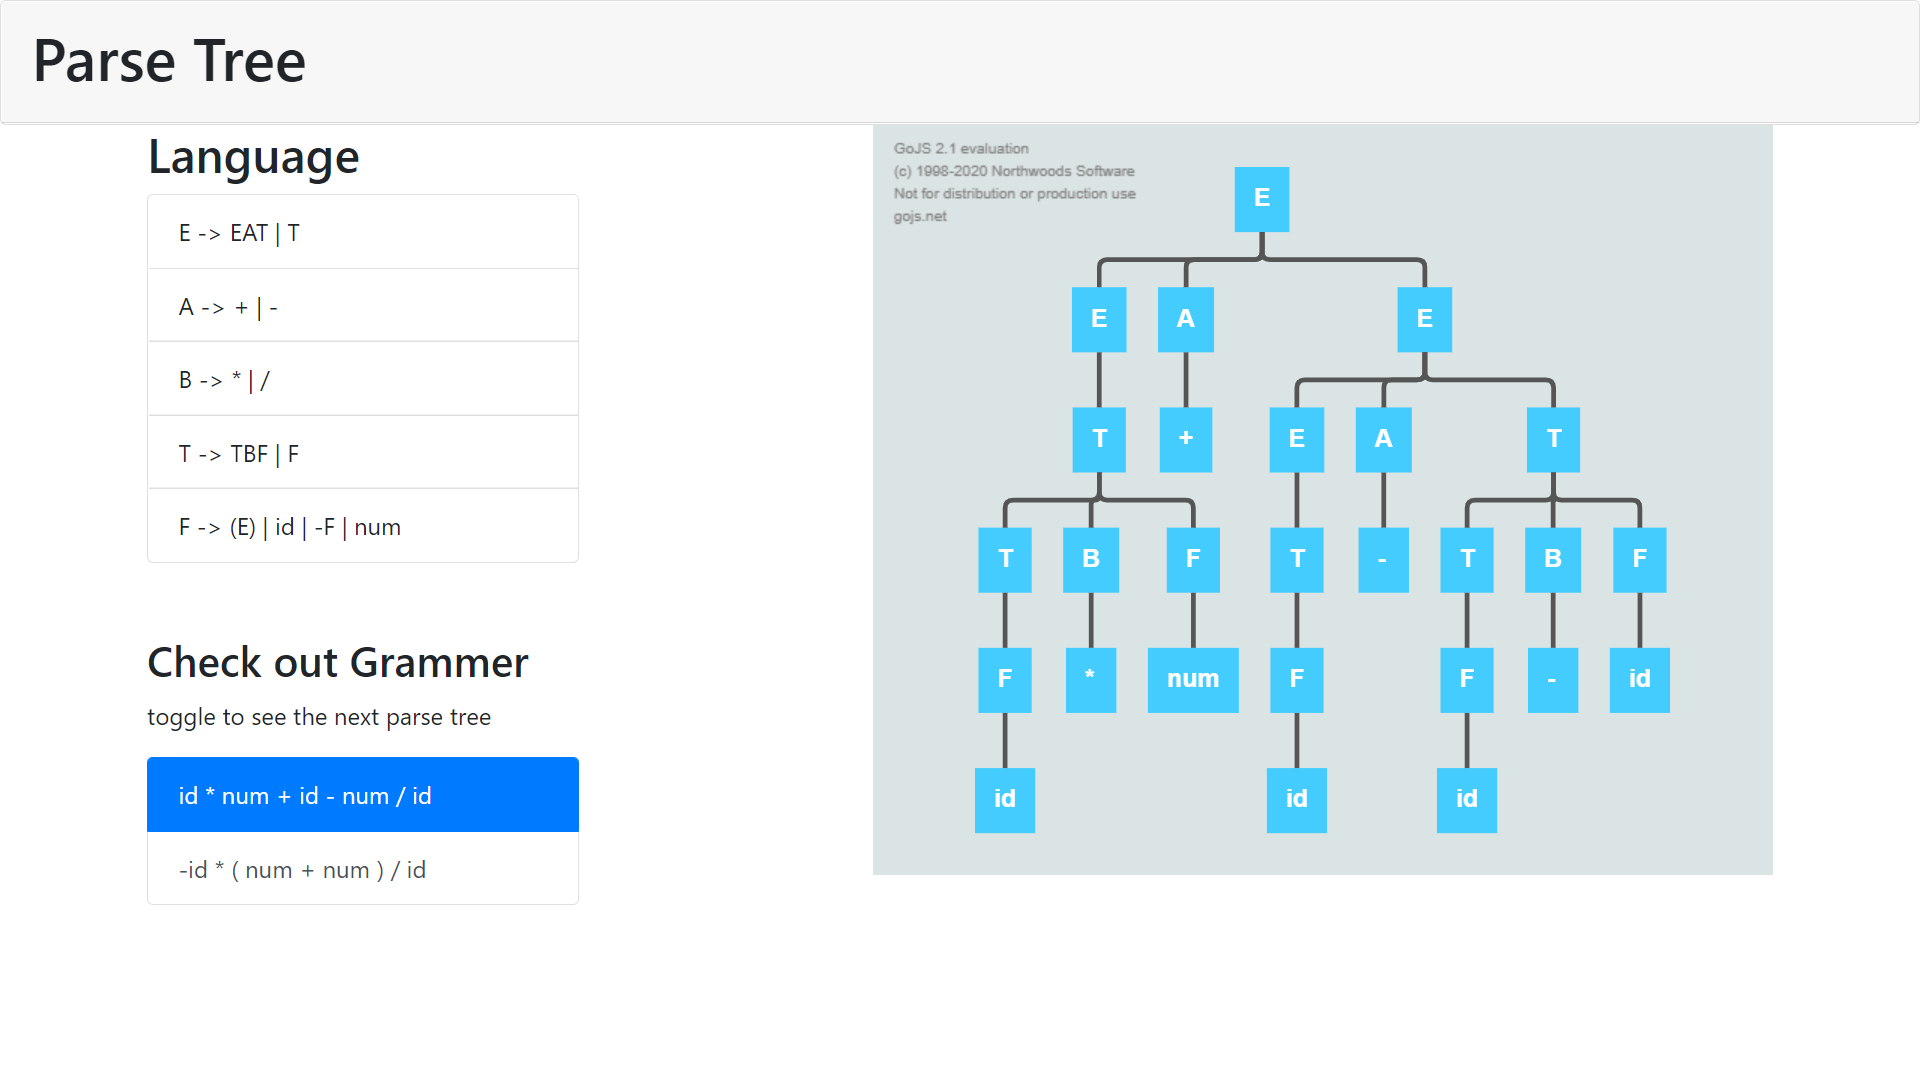
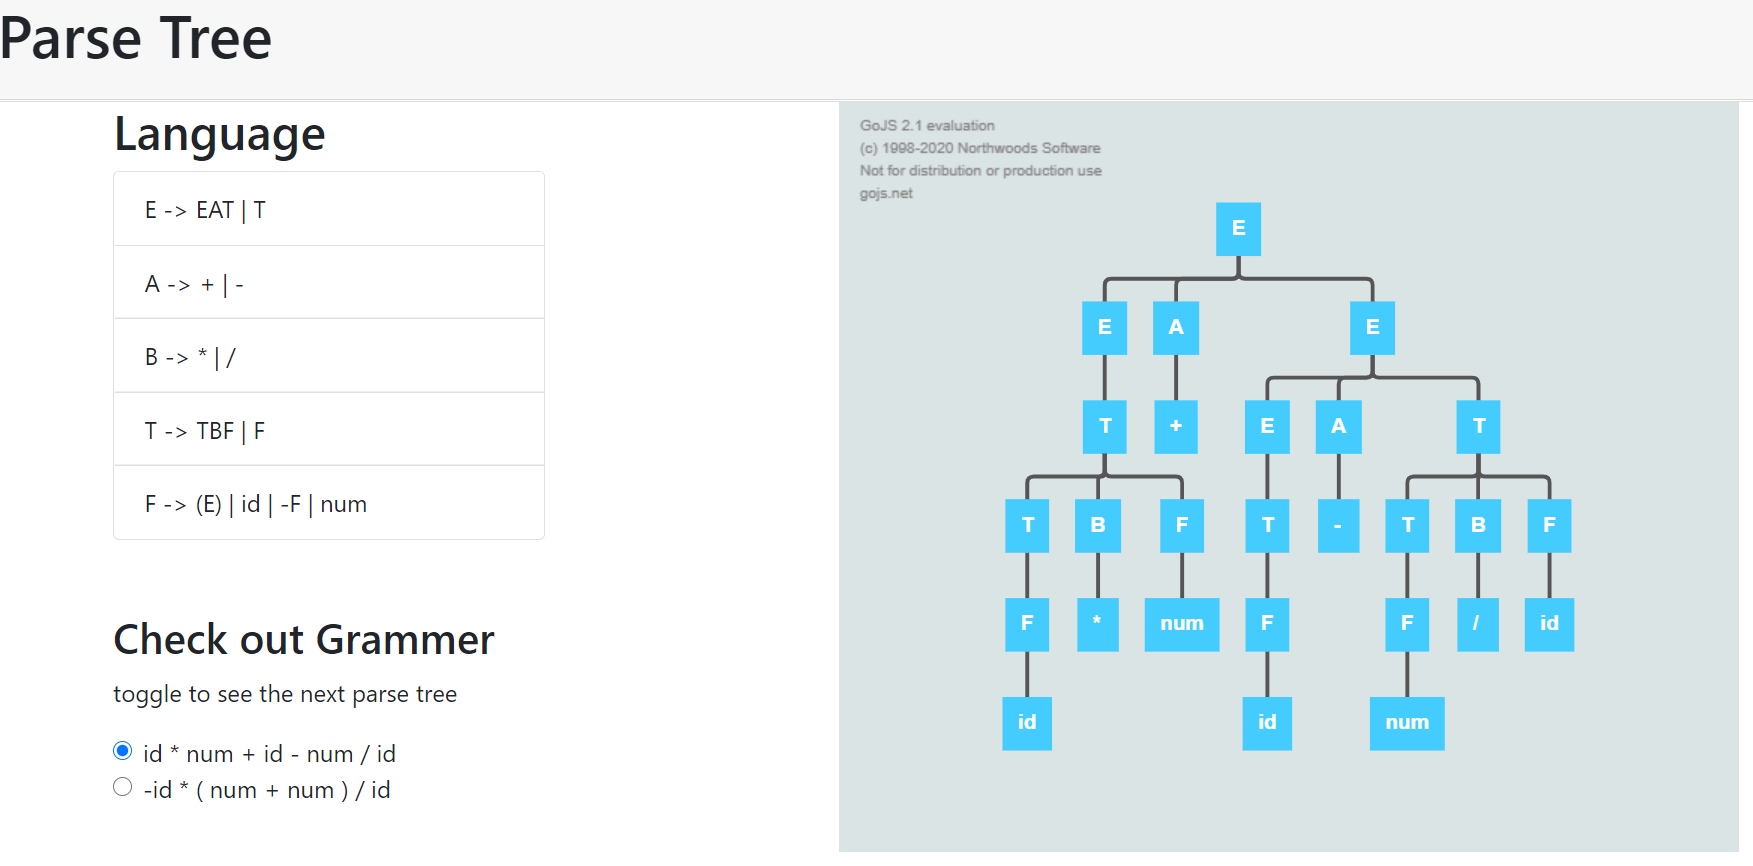
Fix json data and update readme parse image

diff --git a/index.html b/index.html
@@ -39,13 +39,13 @@
             <h3>Check out Grammer</h3>
             <p>toggle to see the next parse tree</p>
             <div class="form-check">
-                <input class="form-check-input" type="radio" name="exampleRadios" id="exampleRadios1" value="option1" checked onclick="checkParseTree(this.value)">
+                <input class="form-check-input" type="radio" name="exampleRadios" id="exampleRadios1" value="1" checked onclick="checkParseTree(this.value)">
                 <label class="form-check-label" for="exampleRadios1">
                     id * num + id - num / id
                 </label>
               </div>
               <div class="form-check">
-                <input class="form-check-input" type="radio" name="exampleRadios" id="exampleRadios2" value="option2" onclick="checkParseTree(this.value)">
+                <input class="form-check-input" type="radio" name="exampleRadios" id="exampleRadios2" value="2" onclick="checkParseTree(this.value)">
                 <label class="form-check-label" for="exampleRadios2">
                     -id * ( num + num ) / id
                 </label>

diff --git a/app.js b/app.js
@@ -51,8 +51,7 @@ function generaterParseTree(question) {
 }
 
 function checkParseTree(value) {
-    console.log(value);
-    if (value === 1) {
+    if (value === '1') {
         return generaterParseTree(question1);
     }
     generaterParseTree(question2);
@@ -146,7 +145,7 @@ let question1 = {
                                     name: 'F',
                                     children: [
                                         {
-                                            name: 'id',
+                                            name: 'num',
                                         }
                                     ]
                                 }
@@ -155,7 +154,7 @@ let question1 = {
                             name: 'B',
                             children: [
                                 {
-                                    name: '-',
+                                    name: '/',
                                 }
                             ]
                         }, {
